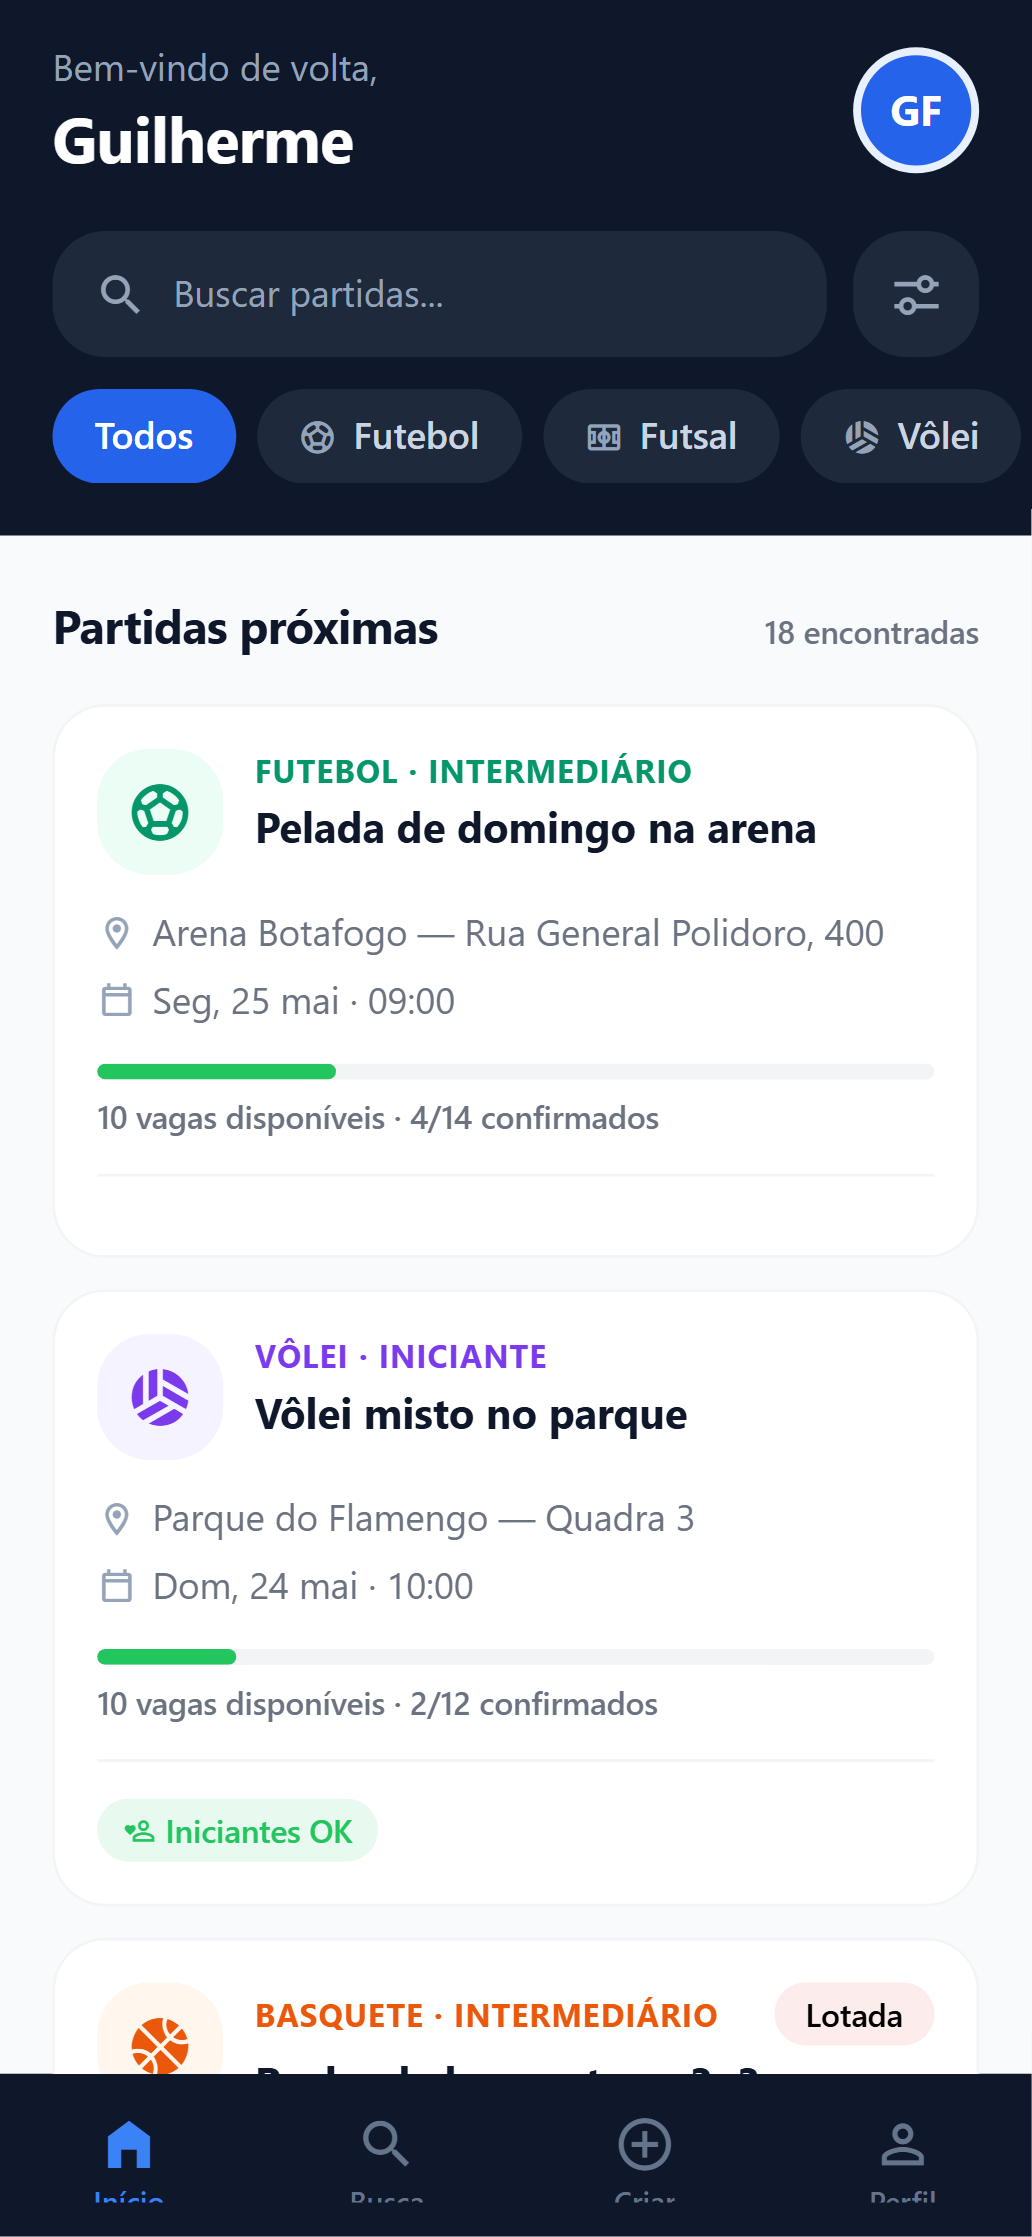
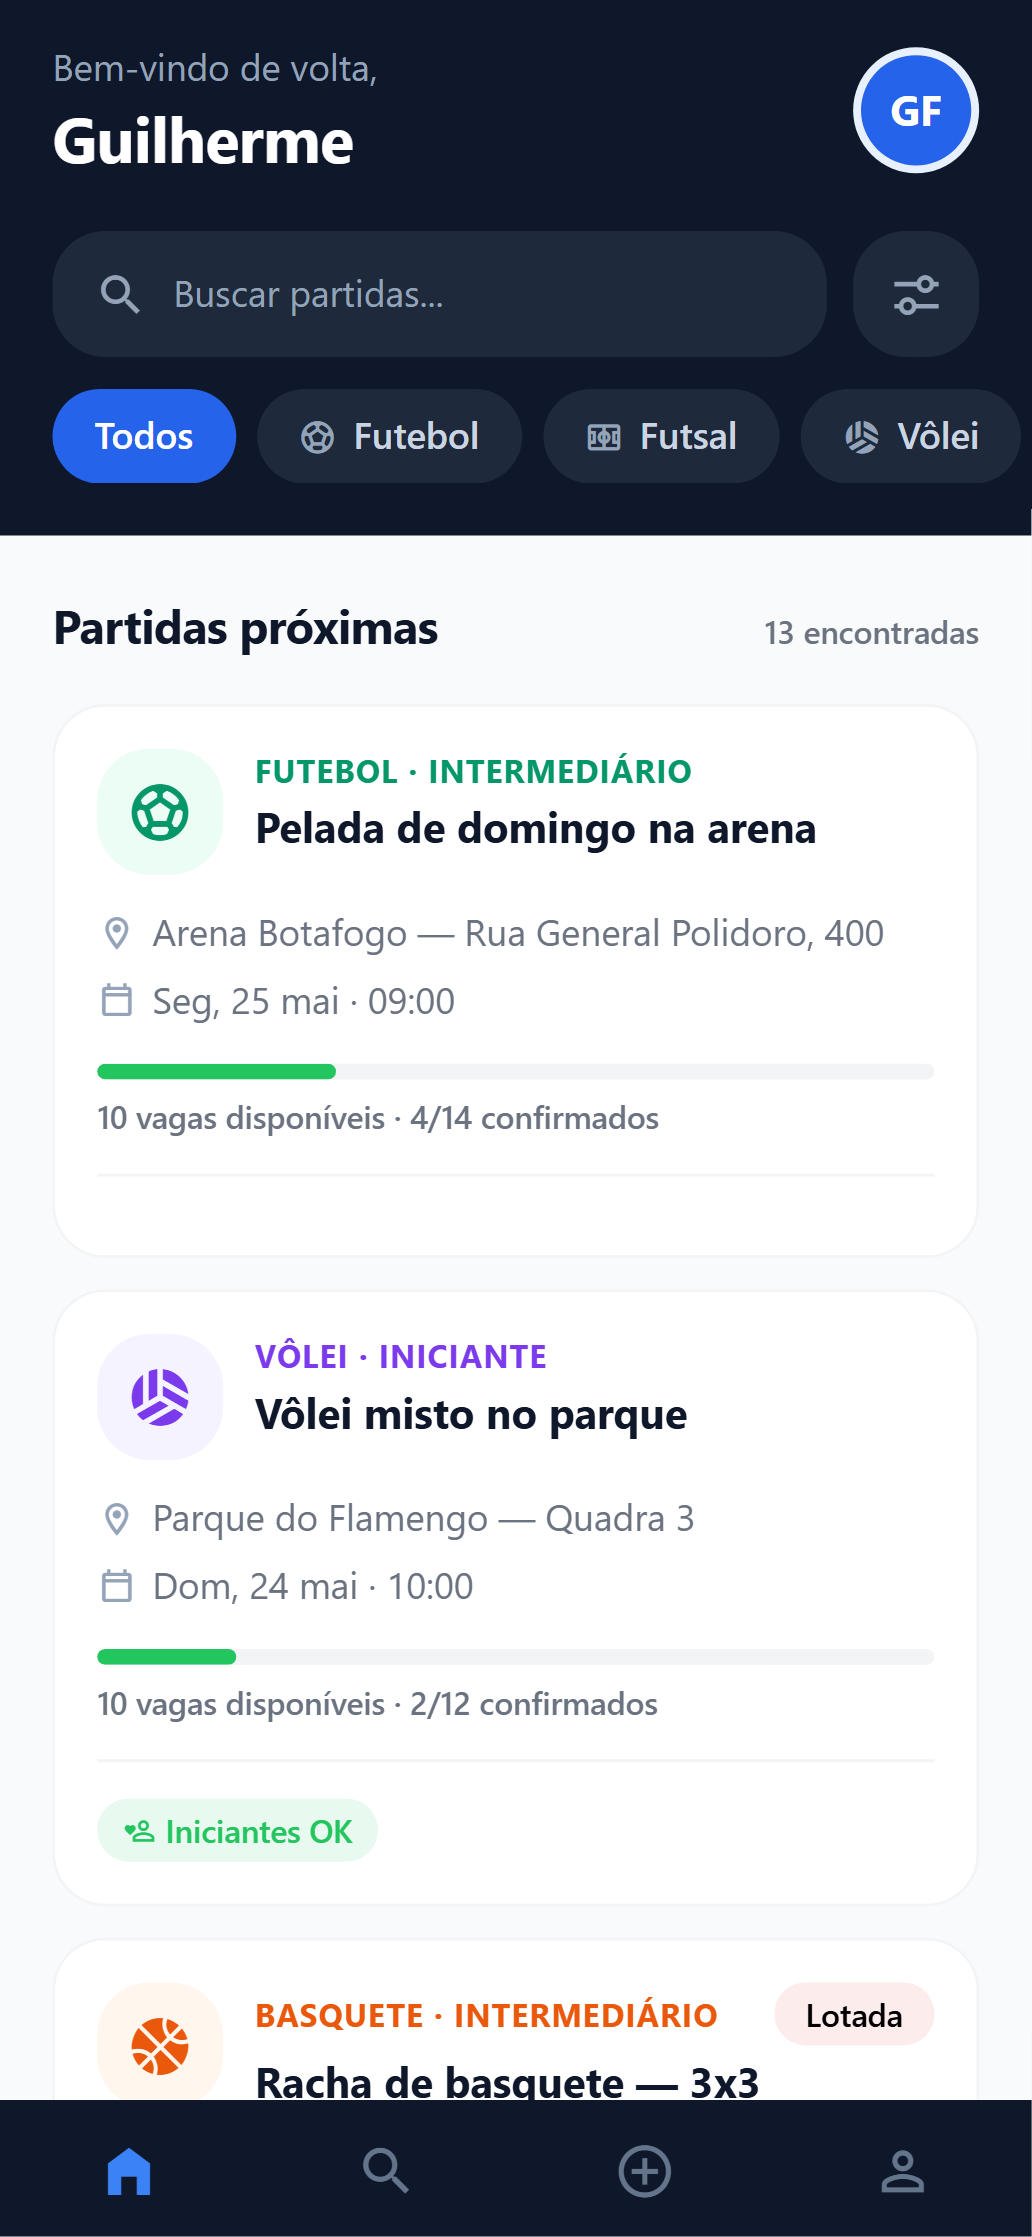
fix(nav): remove labels da tab bar inferior (so icones)
O texto dos labels ("Inicio", "Busca", "Criar", "Perfil") aparecia
cortado nos screenshots via Playwright/react-native-web: o wrapper do
label e renderizado com 8px de altura e overflow:hidden pelo
@react-navigation/bottom-tabs nesse alvo, cortando a metade inferior de
cada glifo. Nao e um bug do app nativo (nunca reportado nos testes em
dispositivo fisico da sessao 34) - e um quirk de medicao de texto do
react-navigation especifico do react-native-web.

Em vez de perseguir esse bug de layout, tabBarShowLabel:false remove o
texto (decisao de design: 4 icones bem universais nao precisam de
label) e tabBarAccessibilityLabel explicito em cada aba mantem a
acessibilidade para leitor de tela, que senao ficaria sem nome algum
com o label escondido. Altura da tab bar reduzida de 62 para 52px
(nao precisa mais do espaco do texto).

scripts/capture-tcc-screenshots.ts atualizado para navegar via
getByRole("tab", { name: ... }) em vez de getByText, ja que o texto
visivel nao existe mais no DOM. 6 screenshots do TCC recapturados
(feed-principal, filtros, criar-partida, perfil, chat-partida, login)
contra o backend local com o usuario seed.

Changed region(s): [[0.0, 0.9253, 1.0, 0.987]]

diff --git a/src/navigation/AppNavigator.tsx b/src/navigation/AppNavigator.tsx
@@ -51,41 +51,54 @@ function AppTabs() {
     <Tab.Navigator
       screenOptions={{
         headerShown: false,
+        tabBarShowLabel: false,
         tabBarActiveTintColor: "#3B82F6",
         tabBarInactiveTintColor: "#64748B",
         tabBarStyle: {
           backgroundColor: "#0F172A",
           borderTopWidth: 0,
           elevation: 0,
-          height: 62 + insets.bottom,
+          height: 52 + insets.bottom,
           paddingTop: 8,
           paddingBottom: insets.bottom + 8,
-        },
-        tabBarLabelStyle: {
-          fontSize: 11,
-          fontWeight: "600",
         },
       }}
     >
       <Tab.Screen
         name="Home"
         component={HomeScreen}
-        options={{ tabBarLabel: "Início", tabBarIcon: HomeIcon }}
+        options={{
+          tabBarLabel: "Início",
+          tabBarIcon: HomeIcon,
+          tabBarAccessibilityLabel: "Início",
+        }}
       />
       <Tab.Screen
         name="Search"
         component={SearchScreen}
-        options={{ tabBarLabel: "Busca", tabBarIcon: SearchIcon }}
+        options={{
+          tabBarLabel: "Busca",
+          tabBarIcon: SearchIcon,
+          tabBarAccessibilityLabel: "Busca",
+        }}
       />
       <Tab.Screen
         name="CreateMatch"
         component={CreateMatchScreen}
-        options={{ tabBarLabel: "Criar", tabBarIcon: CreateIcon }}
+        options={{
+          tabBarLabel: "Criar",
+          tabBarIcon: CreateIcon,
+          tabBarAccessibilityLabel: "Criar partida",
+        }}
       />
       <Tab.Screen
         name="Profile"
         component={MyProfileScreen}
-        options={{ tabBarLabel: "Perfil", tabBarIcon: ProfileIcon }}
+        options={{
+          tabBarLabel: "Perfil",
+          tabBarIcon: ProfileIcon,
+          tabBarAccessibilityLabel: "Perfil",
+        }}
       />
     </Tab.Navigator>
   );

diff --git a/scripts/capture-tcc-screenshots.ts b/scripts/capture-tcc-screenshots.ts
@@ -64,11 +64,11 @@ test("captura telas principais do app", async ({ page }) => {
   await page.goto(BASE_URL);
   await expect(page.getByText("Partidas próximas")).toBeVisible({ timeout: 20000 });
 
-  await page.getByText("Criar", { exact: true }).click();
+  await page.getByRole("tab", { name: "Criar partida" }).click();
   await expect(page.getByText("Criar Partida", { exact: true })).toBeVisible({ timeout: 10000 });
   await shot(page, "criar-partida");
 
-  await page.getByText("Perfil", { exact: true }).click();
+  await page.getByRole("tab", { name: "Perfil" }).click();
   await page.waitForTimeout(800);
   await shot(page, "perfil");
 });
